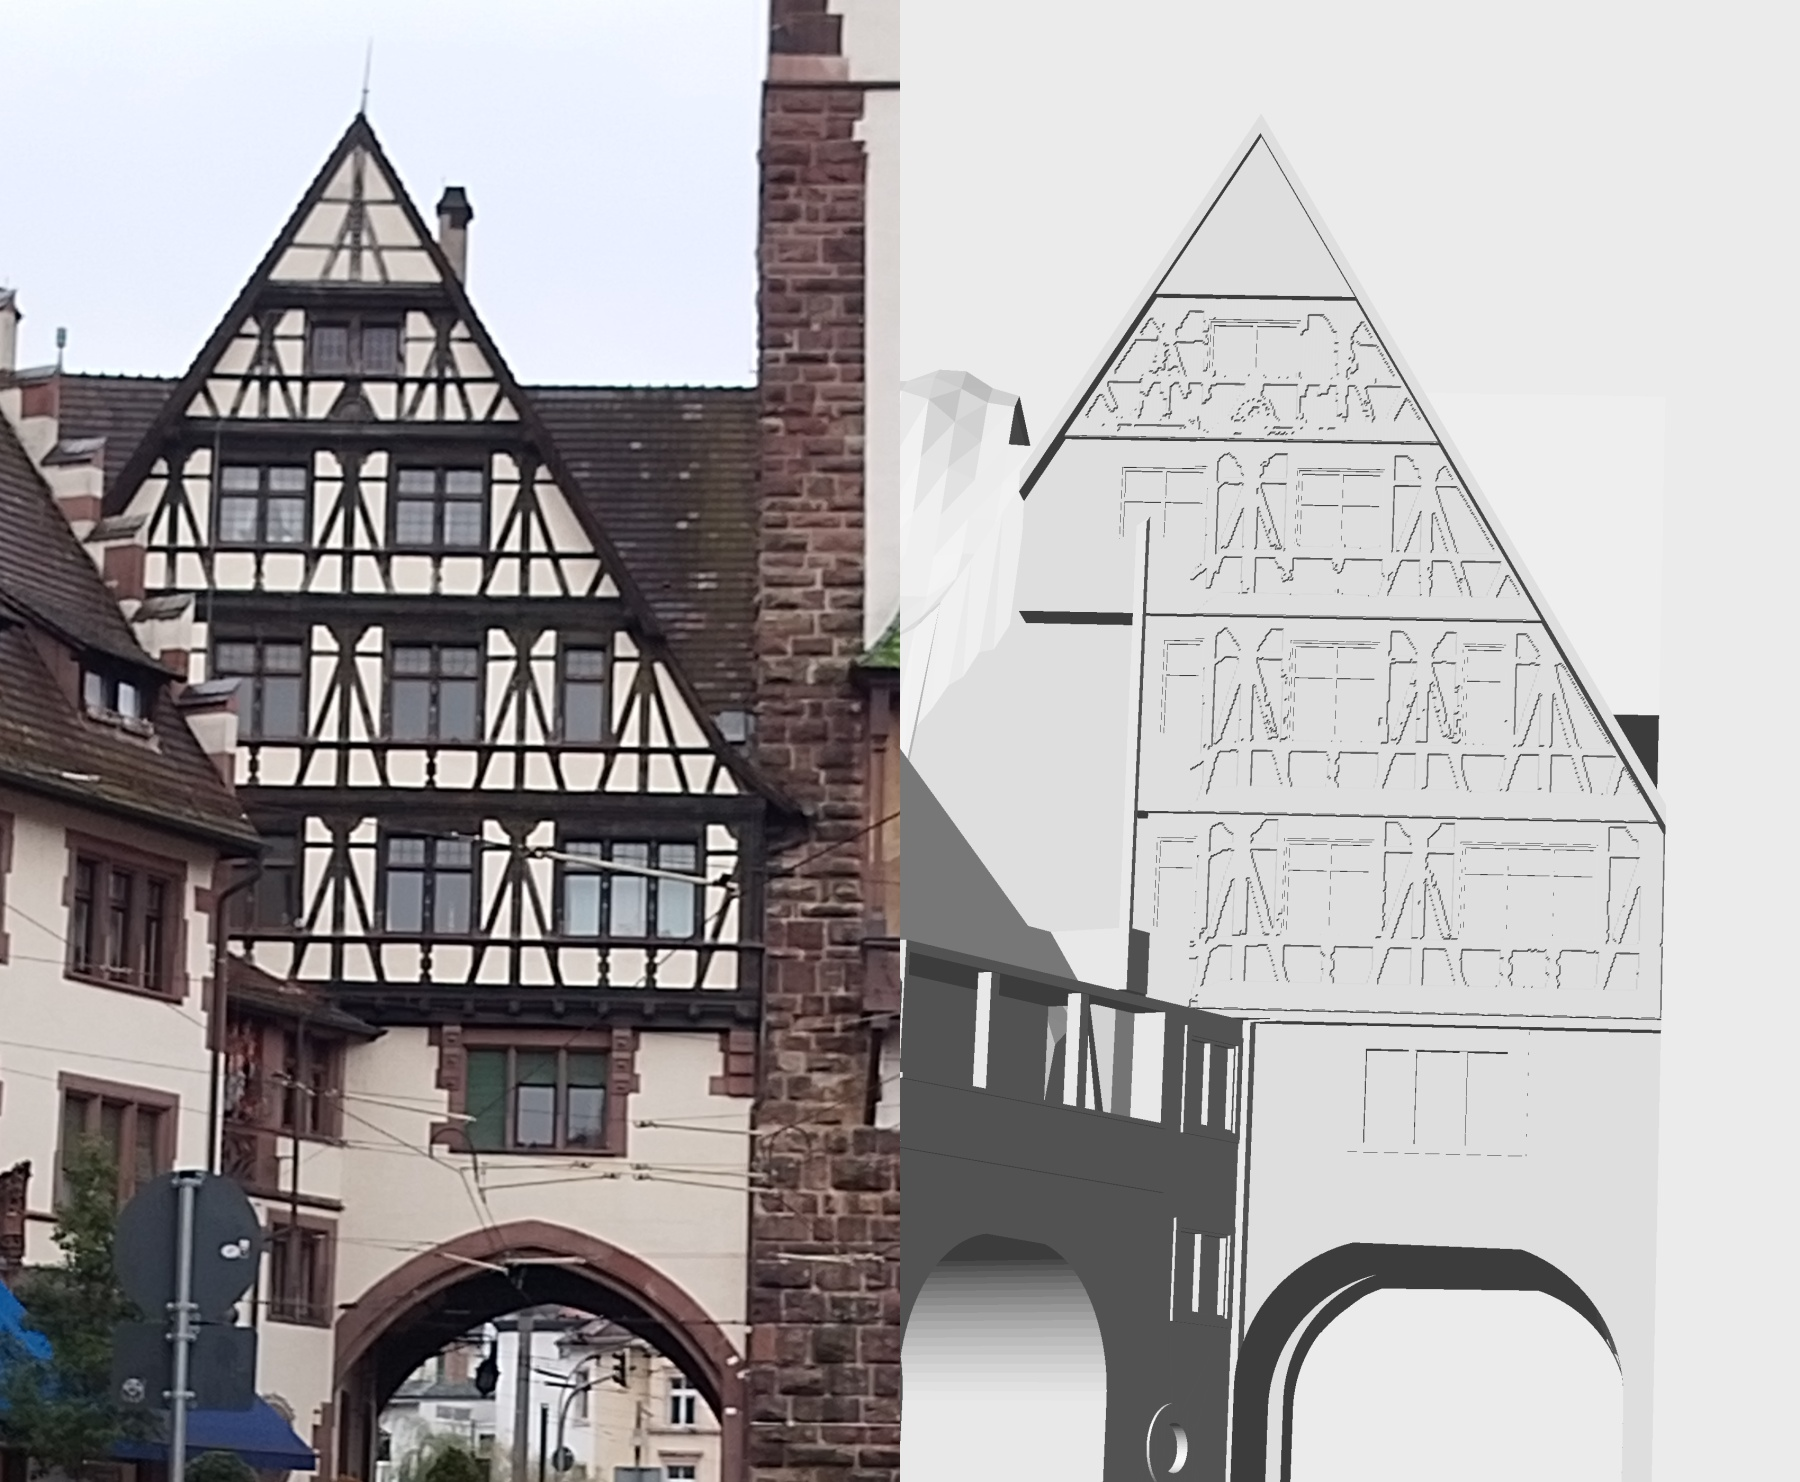
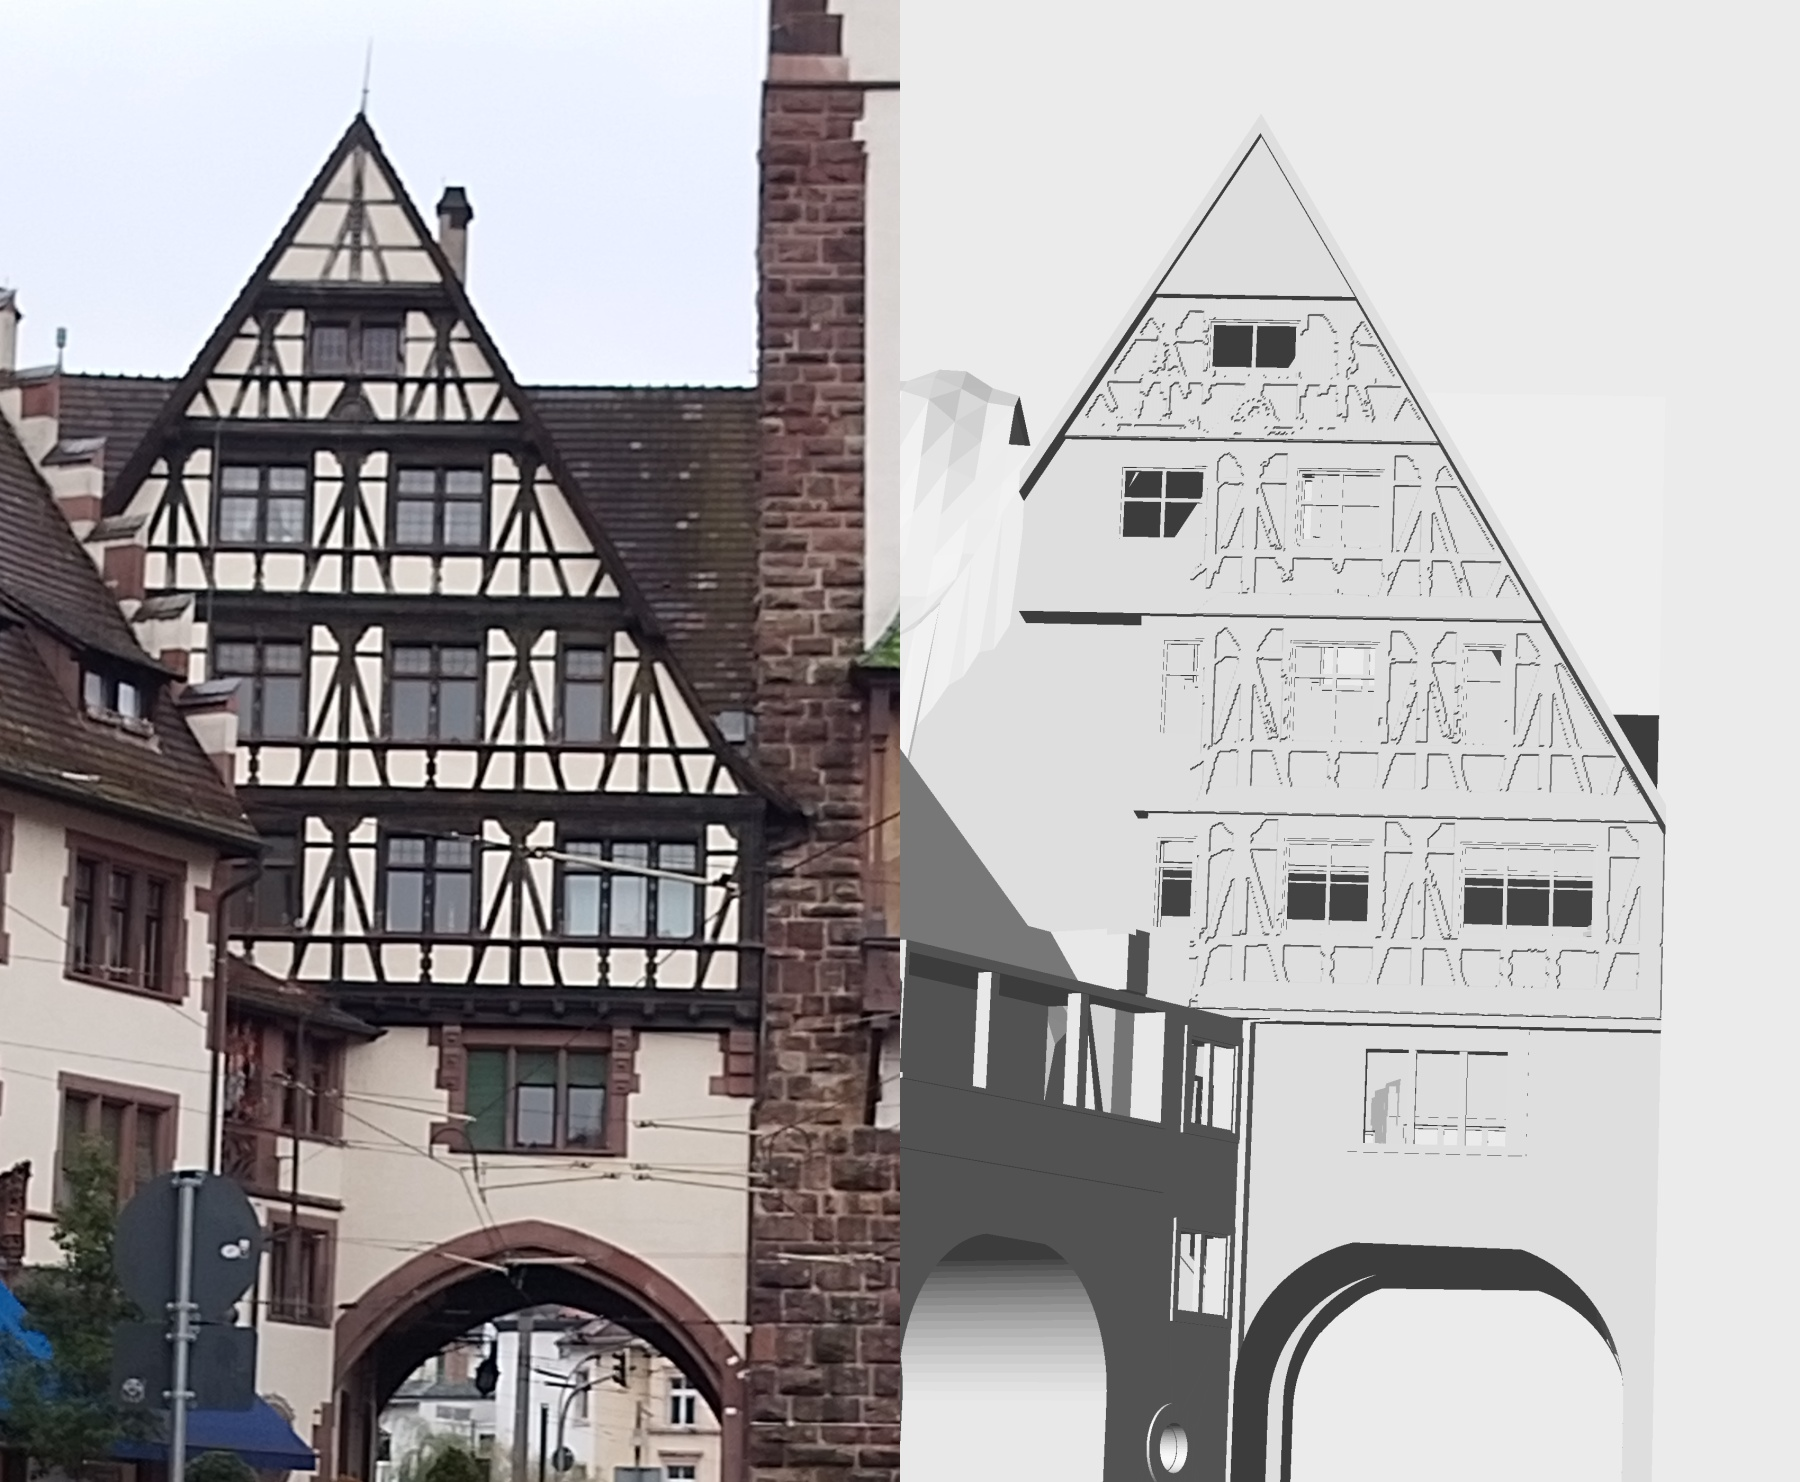
schwab_nachbar: Gebaeude hohl, 37 Fenster als echte Loecher (bauteile.aushoehlen), Abnahme gruen; 3D-Seite mit ebenen Flaechennormalen
Claude-Session: https://claude.ai/code/session_01BMC5F7JqzthTsrTAV2gKLz

diff --git a/tools/modell_3d_html.tpl.html b/tools/modell_3d_html.tpl.html
@@ -88,7 +88,7 @@ szene.add(new THREE.HemisphereLight(0xffffff, 0x6b5a48, 0.75)); const sonne = ne
 // Modell
 const mv = new Float32Array(dec(DATA.mv).buffer), mf = new Uint32Array(dec(DATA.mf).buffer);
 const mg = new THREE.BufferGeometry(); mg.setAttribute("position", new THREE.BufferAttribute(auf3(mv, 1), 3)); mg.setIndex(new THREE.BufferAttribute(mf, 1)); mg.computeVertexNormals();
-const mmat = new THREE.MeshLambertMaterial({ color: new THREE.Color(css("--modell")), transparent: true, opacity: 0.55, side: THREE.DoubleSide, depthWrite: false });
+const mmat = new THREE.MeshPhongMaterial({ flatShading: true, shininess: 0, specular: 0x000000, color: new THREE.Color(css("--modell")), transparent: true, opacity: 0.55, side: THREE.DoubleSide, depthWrite: false });
 const modell = new THREE.Mesh(mg, mmat); modell.renderOrder = 2; szene.add(modell);
 const kanten = new THREE.LineSegments(new THREE.EdgesGeometry(mg, 25), new THREE.LineBasicMaterial({ color: new THREE.Color(css("--kante")) })); szene.add(kanten);
 // Wolke

diff --git a/tools/bauteile.py b/tools/bauteile.py
@@ -50,6 +50,7 @@ class Wand:
         for t_ in teiler: zus = zus + K_(t_ - b / 2, t_ + b / 2, z0 - e, z1 + e, v0, v1)
         if kaempfer: zus = zus + K_(u0 - e, u1 + e, kaempfer - b / 2, kaempfer + b / 2, v0, v1)
         for a0, c0, a1, c1 in sprossen: zus = zus + self.stab((a0, c0), (a1, c1), b_sprosse, v0, v1 - 0.01)      # Sprossen (u0, z0, u1, z1) aus fenster_aus_parsing.py, 1 cm hinter den Pfosten
+        DURCH.append((self, u0, u1, z0, z1, w - tiefe))                    # fuer aushoehlen(): Fenster = echtes Loch (Nutzer 16.11.2026)
         return K_(u0, u1, z0, z1, w - tiefe, w + 0.02), zus
     def stab(self, p, q, b, w0, w1):
         """Gerader Stab von p = (u, z) nach q = (u, z), Breite b, von w0 bis w1 vor der Wand (Zeiger, Ziffernstriche, Leisten)."""
@@ -100,6 +101,54 @@ def fenster_aus_json(koerper, datei, tiefe=0.12, min_stimmen=3):
         if n_: belege.append(dict(seite="wand", element=f"{n_} Fenster Fassade {fid} (automatisch erkannt)", quelle="OWLv2 auf dem Mehrfoto-Ortho (fassade_ortho.py -> fassade_parsing.py -> fenster_aus_parsing.py), Fotos " + ", ".join(F.get("fotos", [])[:3]),
                                   hinweis="ERKENNUNG, am Bild fenster_<id>.jpg pruefen; Nischentiefe und Rahmenbreiten ANNAHME"))
     return koerper, belege
+
+
+DURCH = []   # von Wand.fenster gesammelte Oeffnungen (Wand, u0, u1, z0, z1, w der Nischenrueckwand)
+
+
+def hohlraum(koerper, d, decke=None, boden=None):
+    """Innenraum = Koerper, um die Wandstaerke d nach innen geschrumpft (Schnitt von 8 waagerecht und 2 senkrecht verschobenen Kopien = Erosion)."""
+    v = koerper; r = d * 0.7071
+    for dx, dy in ((d, 0), (-d, 0), (0, d), (0, -d), (r, r), (r, -r), (-r, r), (-r, -r)): v = v ^ koerper.translate((dx, dy, 0.0))
+    v = v ^ koerper.translate((0.0, 0.0, -(decke or d))) ^ koerper.translate((0.0, 0.0, boden or d))
+    for dx, dy in ((d, 0), (-d, 0), (0, d), (0, -d)):                    # schraeg nach oben/unten: sonst beruehrt der Raum waagerechte Aussenflaechen (Auskragungen) entlang einer Kante (4 Flaechen an einer Kante = nicht wasserdicht)
+        for dz in (-0.5 * d, 0.5 * d): v = v ^ koerper.translate((0.7 * dx, 0.7 * dy, dz))
+    return v
+
+
+def aushoehlen(koerper, d=0.3, schnitte=(), fenster=None, min_m3=0.5, decke=None, boden=None):
+    """Nutzer 16.11.2026: "alles, was in Wirklichkeit ein Loch ist (Fenster ...), muss ein Loch werden". Gebaeude hohl (Wandstaerke d = ANNAHME), Fenster durchgebrochen.
+    fenster: Liste wie DURCH (Standard: alle bisher mit Wand.fenster gebauten); schnitte: weitere Durchbruchkoerper (Rundfenster, Schlitze).
+    Nur Hohlraumteile, die von einem Durchbruch erreicht werden, bleiben (sonst geschlossene Blasen = Extrakoerper im STL). Liefert (koerper, anzahl_offen, hohlraum_m3)."""
+    fenster = DURCH if fenster is None else fenster
+    cuts = [W.kasten(u0, u1, z0, z1, wr - d - 0.25, wr + 0.002) for W, u0, u1, z0, z1, wr in fenster] + list(schnitte)
+    if not cuts: return koerper, 0, 0.0
+    alle = cuts[0]
+    for c in cuts[1:]: alle = alle + c
+    raum = None; vol = 0.0
+    for t in hohlraum(koerper, d, decke, boden).decompose():
+        if t.volume() >= min_m3 and (t ^ alle).volume() > 1e-4: raum = t if raum is None else raum + t; vol += t.volume()
+    offen = sum(1 for c in cuts if raum is not None and (c ^ raum).volume() > 1e-5)
+    erg = (koerper - raum if raum is not None else koerper) - alle
+    teile = erg.decompose()                                               # Spaene zwischen Hohlraum und Boegen/Nischen schweben frei (5 Extrakoerper am Nachbarhaus) -> weg
+    if len(teile) > 1:
+        gross = [t for t in teile if t.volume() >= 0.05]; erg = gross[0]
+        for t in gross[1:]: erg = erg + t
+    return kneifkanten_schliessen(erg), offen, vol
+
+
+def kneifkanten_schliessen(koerper, r=0.02, runden=3):
+    """Kanten, an denen sich der Koerper nur beruehrt (4 Flaechen an einer Kante, z. B. Hohlraum tippt an eine Nische): im STL 'nicht wasserdicht'.
+    Um jede solche Kante einen kleinen Klotz (r) auffuellen - schliesst die Beruehrung, oeffnet nie ein Loch."""
+    for _ in range(runden):
+        me = koerper.to_mesh(); V = np.array(me.vert_properties)[:, :3].astype(np.float64); F = np.asarray(me.tri_verts)
+        vq, inv = np.unique(np.round(V, 4), axis=0, return_inverse=True); F = inv.ravel()[F]; F = F[(F[:, 0] != F[:, 1]) & (F[:, 1] != F[:, 2]) & (F[:, 0] != F[:, 2])]
+        e = np.sort(np.r_[F[:, [0, 1]], F[:, [1, 2]], F[:, [2, 0]]], axis=1); u, cnt = np.unique(e, axis=0, return_counts=True); bad = u[cnt > 2]
+        if not len(bad): break
+        o = np.array([[sx, sy, sz] for sx in (-r, r) for sy in (-r, r) for sz in (-r, r)])
+        for a_, b_ in vq[bad]: koerper = koerper + M.hull_points(np.r_[a_ + o, b_ + o].tolist())
+        print("kneifkanten:", [(np.round(a_, 2).tolist(), np.round(b_, 2).tolist()) for a_, b_ in vq[bad]])
+    return koerper
 
 
 def massstab(koerper, faktor, drehpunkt): return koerper.translate((-drehpunkt[0], -drehpunkt[1], -drehpunkt[2])).scale((faktor, faktor, faktor)).translate(drehpunkt)

diff --git a/tools/relief_quader_eben.py b/tools/relief_quader_eben.py
@@ -1,0 +1,28 @@
+#!/usr/bin/env python3
+"""relief_quader_eben.py <relief.npz> <aus.npz> --feld u0 u1 z0 z1 [--feld ...] - glatt behauene Eckquader: Steinzellen eines Feldes auf EINE Hoehe.
+
+Warum (Nutzer 16.11.2026, 3D-Seite: Beulen neben der Suedhr): oberhalb des Gesimses sind die Eckquader des Schwabentors glatt behauen (feines Fassadenbild),
+das Scan-Relief zeigt dort nur Rauschen (Beulen bis 15 cm). Die verzahnte KONTUR Stein/Putz stammt aus der Fotofarbe (Maske 'putz' von tools/relief_putz.py) und
+bleibt; nur die Flaeche wird eben: alle Nicht-Putz-Zellen im Feld = Median dieser Zellen (mindestens 2 cm ueber dem Putz, sonst zeichnet sich die Kontur nicht ab).
+Fugen zwischen den Quadern fehlen (nicht gemessen). Bruchstein (unten) NICHT so behandeln - dort ist das Relief echt.
+"""
+import sys, os, argparse, numpy as np, cv2
+
+
+def main():
+    ap = argparse.ArgumentParser(); ap.add_argument("relief"); ap.add_argument("aus"); ap.add_argument("--feld", nargs=4, type=float, action="append", required=True); ap.add_argument("--min_vor_putz", type=float, default=0.02); a = ap.parse_args()
+    Z = dict(np.load(a.relief)); rel = Z["rel"].astype(np.float64); H, W = rel.shape; px = float(Z["px"]); u0 = float(Z["u0"]); z0 = float(Z["z0"])
+    if "putz" not in Z: print("keine Putzmaske - erst tools/relief_putz.py"); return 2
+    ii, jj = np.mgrid[0:H, 0:W]; U = u0 + (jj + 0.5) * px; ZZ = z0 + (H - 1 - ii + 0.5) * px; niv = float(Z.get("putz_niveau_m", 0.0)); eben = np.zeros((H, W), bool)
+    for f0, f1, g0, g1 in a.feld:
+        m = (U >= f0) & (U <= f1) & (ZZ >= g0) & (ZZ <= g1) & ~Z["putz"]
+        if m.sum() < 20: continue
+        h = max(float(np.median(rel[m & (rel != 0.0)])) if (m & (rel != 0.0)).sum() > 20 else 0.0, niv + a.min_vor_putz); rel[m] = h; eben |= m
+        print(f"Feld u {f0}-{f1}, z {g0}-{g1}: {m.sum() * px * px:.1f} m2 Stein eben auf {h * 100:+.1f} cm (Putz {niv * 100:+.1f} cm)")
+    Z["rel"] = rel.astype(np.float32); Z["quader_eben"] = eben; np.savez_compressed(a.aus, **Z)
+    lx = np.gradient(rel, px, axis=1); lz = np.gradient(rel, px, axis=0); s = np.clip(0.7 - 0.5 * lx + 0.7 * lz, 0, 1); im = cv2.cvtColor((s * 255).astype(np.uint8), cv2.COLOR_GRAY2BGR)
+    im[eben] = (im[eben] * np.array([1.0, 0.85, 0.85])).astype(np.uint8); cv2.imwrite(os.path.splitext(a.aus)[0] + ".jpg", cv2.resize(im, None, fx=3, fy=3, interpolation=cv2.INTER_NEAREST))
+
+
+if __name__ == "__main__":
+    sys.exit(main())

diff --git a/modelle/schwab_nachbar_gen.py b/modelle/schwab_nachbar_gen.py
@@ -118,6 +118,14 @@ if obj.get("lod2", {}).get("id"):                    # Standard: LoD2-Grundriss 
     beleg("wand", "Durchfahrt (zweiter Torbogen) Nord und Sued", "foto_mass.py auf den Fassadenebenen, Fotos 113310 (Nord) und commons 217 (Sued): M-113310-001..-004, M-commons217-001..-003", nord_halbe_breite=3.20,
           nord_scheitel=6.35, nord_kaempfer=3.90, sued_halbe_breite=3.15, sued_scheitel=6.39, sued_kaempfer=4.05,
           hinweis="ANNAHME: Boegen symmetrisch (in den Fotos ist nur die turmseitige Haelfte zu sehen; Spannweite passt zum Netz), Kreisboegen, Durchfahrt gerade von Nord nach Sued")
+    koerper = koerper - WN.kasten(-1.95, -1.25, 10.9, 30.0, 3.3, 3.75)     # 9 x 22 cm duenner Pfahl (z 11-18) am Rand des Laser-Hoehenfelds neben dem Giebelfreischnitt: Rest ohne Vorbild, weg
+    # ---- 16.11.2026 FENSTER ALS ECHTE LOECHER (Nutzer: "alles, was in Wirklichkeit durch ein Loch ist, zum Beispiel Fenster, muessen Loecher werden") ----
+    if os.environ.get("OHNE_HOHL") != "1":
+        from bauteile import aushoehlen
+        koerper, n_offen, v_hohl = aushoehlen(koerper, d=0.30, schnitte=[WL.scheibe(-0.06, 2.85, 0.76, -0.75, -0.14), WN.kasten(2.09, 4.45, 8.0, 9.575, -0.75, -0.19) - WN.kasten(2.80, 2.93, 7.9, 9.7, -0.21, 0.03) - WN.kasten(3.65, 3.78, 7.9, 9.7, -0.21, 0.03)])
+        beleg("wand", f"Gebaeude hohl, {n_offen} Fenster durchgebrochen", "Nutzerauftrag 16.11.2026; Fensterrechtecke wie oben gemessen", fenster_offen=n_offen, hohlraum_m3=round(v_hohl, 1),
+              hinweis="ANNAHME: Wandstaerke 0,30 m (3,4 mm bei 1:87), Innenraum ohne Decken/Zwischenwaende; Rahmen, Pfosten und Kaempfer bleiben als Staebe in der Oeffnung")
+        print(f"hohl: {n_offen} Durchbrueche erreichen den Innenraum, Hohlraum {v_hohl:.0f} m3")
     cu, cv = haupt.mean(0); model = koerper.scale((K, K, K))   # 15.11.2026: NICHT zentrieren - STL bleibt im Rahmen (objekt.json rahmen); die Fotowerkzeuge (zentrierung 'achse') erwarten STL = Rahmen, sonst liegt das Modell um (cu, cv) neben Kameras/Wolke
 else:
     H = 10.0                               # Gesamthoehe (m) - Quelle in masstabelle.json
